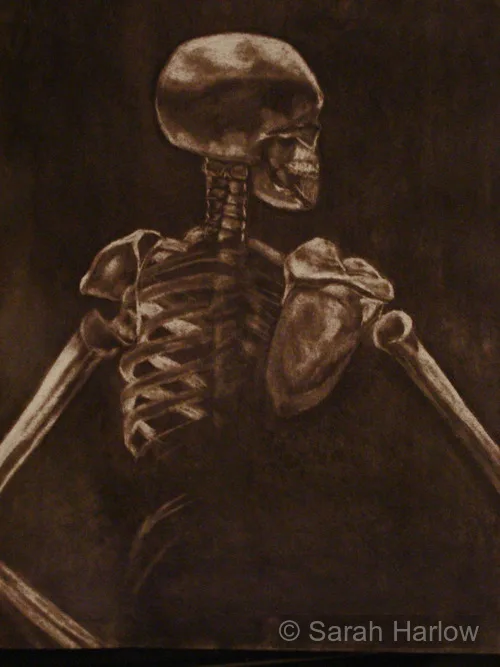
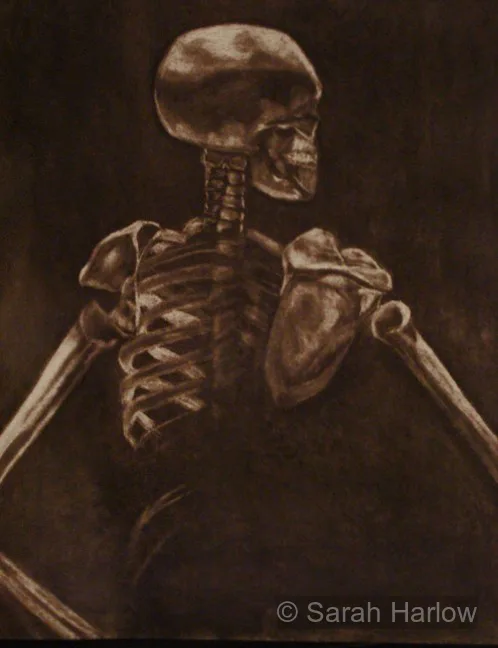
Latest images, crops, adding better borders

diff --git a/style.css b/style.css
@@ -242,24 +242,24 @@ a{ color: inherit; text-decoration: none; }
 .gallery-grid{
   display: grid;
   grid-template-columns: repeat(2, 1fr);
-  gap: 4px;
+  gap: 12px;
   background: var(--canvas);
-  padding: 4px;
+  padding: 12px;
 }
 .piece{
   position: relative;
   margin:0;
-  aspect-ratio: 1;
   overflow: hidden;
-  background: var(--canvas-dim);
+  background: #fff;
   cursor: pointer;
+  border: 2px solid var(--card-border);
+  padding: 6px;
 }
 
 .piece-img{
-  position: absolute;
-  inset: 0;
   width:100%;
   height:100%;
+  aspect-ratio: 1;
   object-fit: cover;
   display:block;
   transition: transform 0.7s cubic-bezier(0.16,1,0.3,1);

diff --git a/about.html b/about.html
@@ -24,7 +24,7 @@
 </header>
 
 <main class="about-full">
-  <img src="images/Studio_work/DSC0476.webp" alt="" class="about-bg">
+  <img src="images/about/DSC0476.webp" alt="" class="about-bg">
   <div class="about-card">
     <h1>About Sarah</h1>
     <p>This American artist intertwines fourth-wave feminism with psychedelic aesthetics, employing vivid neon colors to bring attention to themes of reproductive rights, sex work, and the "dark feminine."</p>
